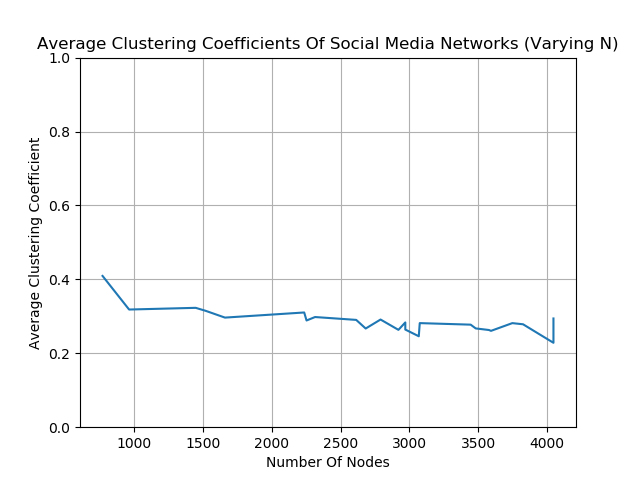
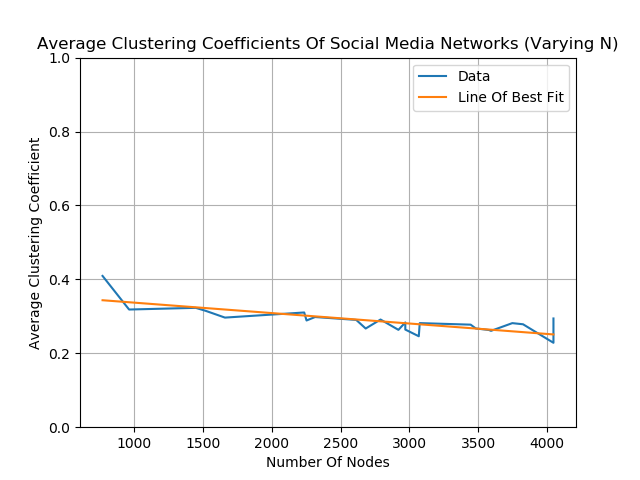
Resolved straight line fitting issues and achieved a best fit line for average clustering coefficients of social media networks.

diff --git a/Interim - Random Networks - Poisson Dist (Varying N).py b/Interim - Random Networks - Poisson Dist (Varying N).py
@@ -5,10 +5,10 @@ import networkx as nx
 import matplotlib.pyplot as plt
 from scipy.optimize import curve_fit
 
-import Random_Network
-import Network_Analysis_Functions
-import Distribution_Analysis_Functions
-from Input_Output_Support_Functions import *
+from NetworkTypes import Random_Network
+from SupportingFunctions import Network_Analysis_Functions
+from SupportingFunctions import Distribution_Analysis_Functions
+from SupportingFunctions import Input_Output_Support_Functions as IO
 
 
 #--------------------------------------------------------------------------------------------------
@@ -71,7 +71,7 @@ plt.show()
 
 # Output the extracted mean values of the Poisson fitting.
 outputFile = open("Poisson Distribution - Extracted Mean Values - Varying N.txt", 'w')
-WritePlottingDataToTxtFile(outputFile, "N", N_Array, "Poisson Mean Value", extractedLambdaValues)
+IO.WritePlottingDataToTxtFile(outputFile, "N", N_Array, "Poisson Mean Value", extractedLambdaValues)
 outputFile.close()
 
 
@@ -114,7 +114,7 @@ plt.savefig("Differences Of Poisson Fit Against Varying N Data (P = " + str(prob
 
 # Output data to text file.
 outputFile = open("Poisson Distribution - Divergance - Varying N.txt", 'w')
-WritePlottingDataToTxtFile(outputFile, "N", N_Array, "Difference", differencesArray)
+IO.WritePlottingDataToTxtFile(outputFile, "N", N_Array, "Difference", differencesArray)
 outputFile.write("\n" + "Best fit line:" + "\n Gradient = " + str(popt[0]) + "\n Intercept = " + str(popt[1]))
 outputFile.close()
 
@@ -172,8 +172,8 @@ plt.savefig("Comparison Of Root-Mean and STD of Poisson data - Varying N.png")
 outputFile_std = open("Poisson Distribution - STD Of Data - Varying N.txt", 'w')
 outputFile_rtMean = open("Poisson Distribution - Root Mean Of Fits - Varying N.txt", 'w')
 
-WritePlottingDataToTxtFile(outputFile_std, "N", N_Array, "STD", stdOfDegreeArray)
-WritePlottingDataToTxtFile(outputFile_rtMean, "N", N_Array, "Root-Mean", rootMeanOfPoisson)
+IO.WritePlottingDataToTxtFile(outputFile_std, "N", N_Array, "STD", stdOfDegreeArray)
+IO.WritePlottingDataToTxtFile(outputFile_rtMean, "N", N_Array, "Root-Mean", rootMeanOfPoisson)
 
 outputFile_std.write("\n" + "Best fit line:" + "\n Gradient = " + str(popt_std[0]) + "\n Intercept = " + str(popt_std[1]))
 outputFile_rtMean.write("\n" + "Best fit line:" + "\n Gradient = " + str(popt_rootmean[0]) + "\n Intercept = " + str(popt_rootmean[1]))

diff --git a/NetworkRepository_AverageClusteringCoefficients.py b/NetworkRepository_AverageClusteringCoefficients.py
@@ -87,14 +87,36 @@ numberArray, averageClusteringCoefficients = IO.ReadPlottingDataFromTxtFile(file
 
 plt.figure()
 plt.grid()
-plt.plot(numberOfNodesArray, averageClusteringCoefficients)
+plt.plot(numberOfNodesArray, averageClusteringCoefficients, label='Data')
+
+
+# Fit a straight line to the data.
+estimateGradient = 0
+estimateIntercept = 0.3
+
+numberArray_temp, clusteringArray_temp = IO.CleanRepeatedValuesOfNetworkRepData(numberOfNodesArray, averageClusteringCoefficients)
+popt, pcov = curve_fit(
+                    Distribution_Analysis_Functions.StraightLine,
+                    numberArray_temp, clusteringArray_temp,
+                    (estimateGradient, estimateIntercept))
+xArray = np.linspace(numberOfNodesArray[0], numberOfNodesArray[len(numberOfNodesArray) - 1], 1000)
+plt.plot(xArray, Distribution_Analysis_Functions.StraightLine(xArray, popt[0], popt[1]), label = 'Line Of Best Fit')
+
 
 plt.ylim(0, 1)
+plt.legend(loc='best')
 plt.xlabel("Number Of Nodes")
 plt.ylabel("Average Clustering Coefficient")
 plt.title("Average Clustering Coefficients Of Social Media Networks (Varying N)")
 plt.savefig("NetworkRepository_Data/Average Clustering Coefficients Of Social Media Networks (Varying N)")
 plt.close()
 
+print('')
+print('----------------------------------------------')
 
+pvar = np.diag(pcov)
 
+print('Gradient = ' + str(popt[0]) + ' +/- ' + str(np.sqrt(pvar[0])))
+print('Intercept = ' + str(popt[1]) + ' +/- ' + str(np.sqrt(pvar[1])))
+print('----------------------------------------------')
+print('')

diff --git a/SupportingFunctions/Input_Output_Support_Functions.py b/SupportingFunctions/Input_Output_Support_Functions.py
@@ -30,3 +30,27 @@ def ReadPlottingDataFromTxtFile(fileName):
         return array1, array2
 
 
+def CleanRepeatedValuesOfNetworkRepData(inputArray1, inputArray2):
+
+        # Indices (12, 13) and (23,24) are identical in N.
+        outputArray1 = np.zeros(len(inputArray1) - 2)
+        outputArray2 = np.zeros(len(inputArray2) - 2)
+
+        for i in range(0, 12):
+                outputArray1[i] = inputArray1[i]
+                outputArray2[i] = inputArray2[i]
+        
+        outputArray1[12] = (inputArray1[12] + inputArray1[13]) / 2
+        outputArray2[12] = (inputArray2[12] + inputArray2[13]) / 2
+
+        for i in range(13, 22):
+                outputArray1[i] = inputArray1[i + 1]
+                outputArray2[i] = inputArray2[i + 1]
+
+        outputArray1[22] = (inputArray1[23] + inputArray1[24]) / 2
+        outputArray2[22] = (inputArray2[23] + inputArray2[24]) / 2
+
+        return outputArray1, outputArray2
+
+
+
